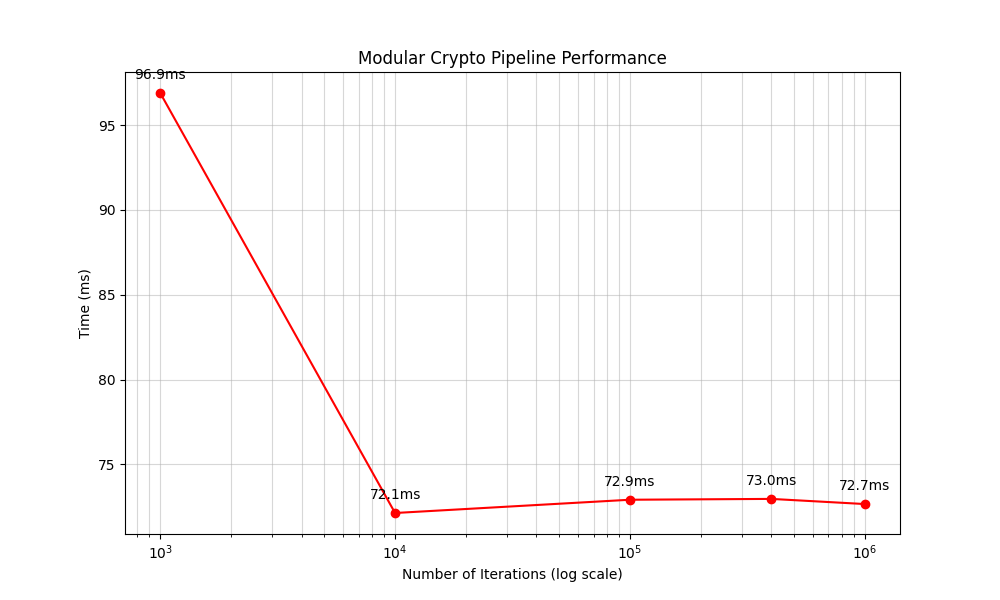
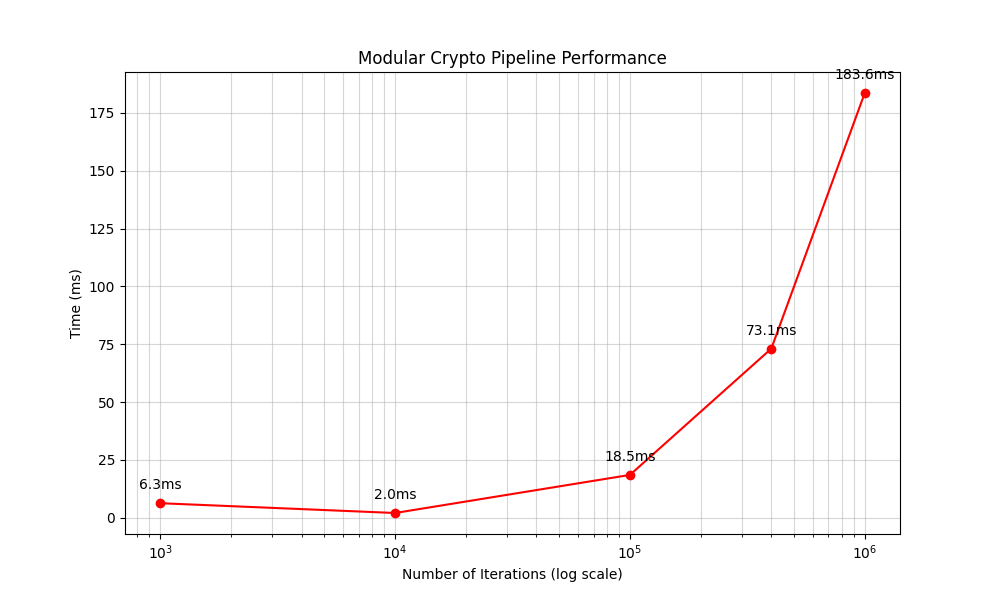
fix: benchmark iteration count logic and finalize modularization

diff --git a/src/crypto/vault_cipher.py b/src/crypto/vault_cipher.py
@@ -4,13 +4,13 @@ from cryptography.hazmat.primitives import hashes, hmac, padding
 from cryptography.hazmat.primitives.ciphers import Cipher, algorithms, modes
 from src.core.config import KDF_ITERATIONS
 
-def derive_keys(password: str, salt: bytes):
+def derive_keys(password: str, salt: bytes, iterations: int = KDF_ITERATIONS):
     """[Session 8] Key Derivation & Stretching"""
     kdf = PBKDF2HMAC(
         algorithm=hashes.SHA256(),
         length=32, # 16 for AES + 16 for HMAC
         salt=salt,
-        iterations=KDF_ITERATIONS,
+        iterations=iterations,
     )
     full_key = kdf.derive(password.encode())
     # [Pipeline Stage 2] Tách Khóa: 16b AES Key + 16b HMAC Key

diff --git a/benchmark.py b/benchmark.py
@@ -10,14 +10,10 @@ def benchmark_kdf(iterations_list, password="master_password", salt=b"fixed_salt
     print("-" * 30)
     
     for i in iterations_list:
-        # Override global constant locally for benchmark
-        from src.core import config
-        config.KDF_ITERATIONS = i
-        
         start_time = time.perf_counter()
         
-        # 1. Derive Keys
-        aes_key, hmac_key = derive_keys(password, salt)
+        # 1. Derive Keys with explicit iteration count
+        aes_key, hmac_key = derive_keys(password, salt, iterations=i)
         
         # 2. Encrypt & Authenticate
         data = {"test": "data" * 10}
